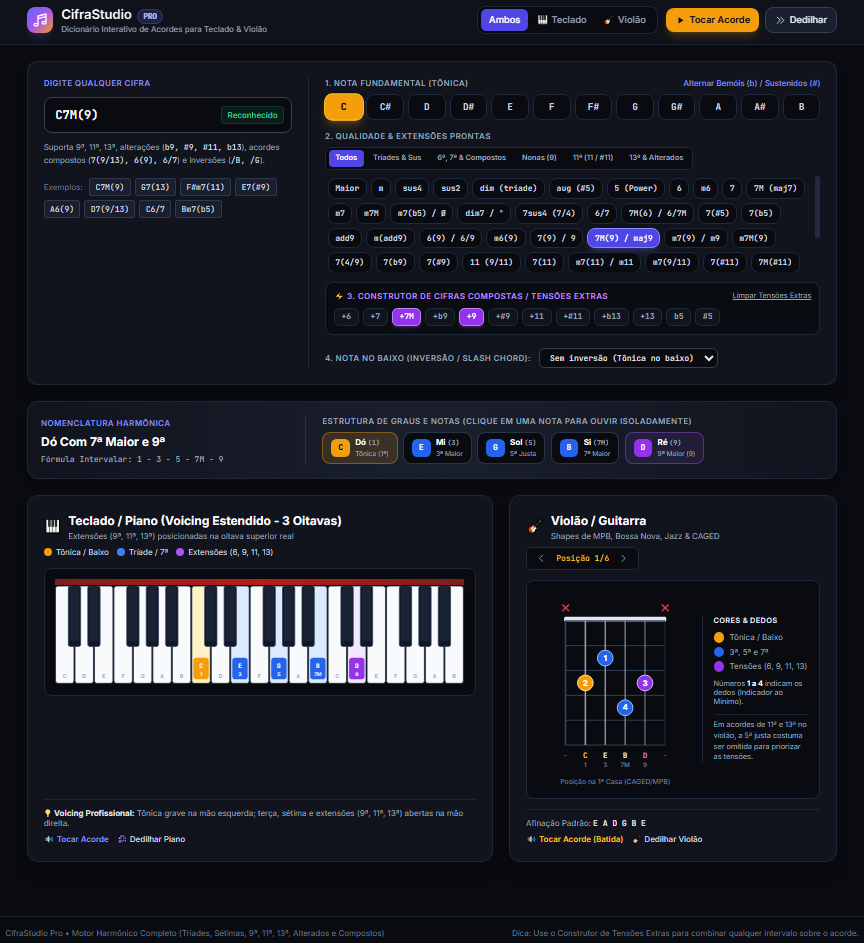
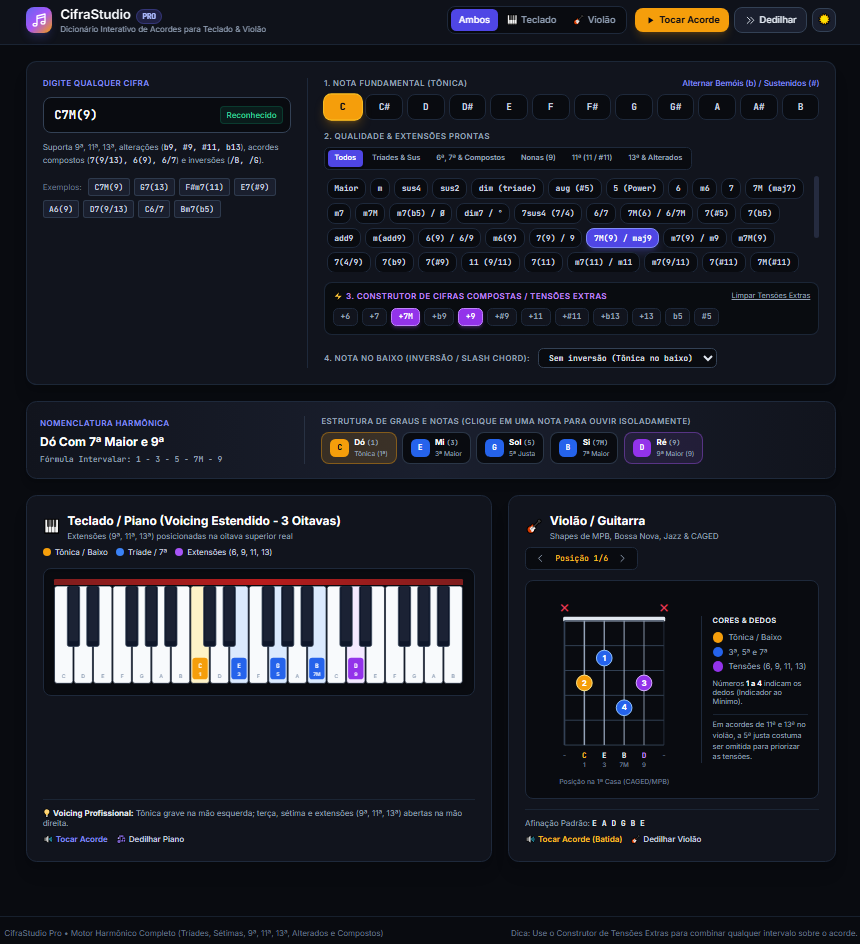
adição tema claro/escuro

diff --git a/index.html b/index.html
@@ -35,6 +35,74 @@
             background-color: #090b10;
             color: #f3f4f6;
             overflow-x: hidden;
+            transition: background-color 0.25s ease, color 0.25s ease;
+        }
+        /* Tema Claro (Light Mode Overrides) */
+        html:not(.dark) body {
+            background-color: #f1f5f9;
+            color: #0f172a;
+        }
+        html:not(.dark) .bg-studio-950,
+        html:not(.dark) .bg-studio-950\/90 {
+            background-color: #f8fafc !important;
+        }
+        html:not(.dark) .bg-studio-900,
+        html:not(.dark) .bg-studio-900\/80 {
+            background-color: #ffffff !important;
+        }
+        html:not(.dark) .bg-studio-800 {
+            background-color: #e2e8f0 !important;
+        }
+        html:not(.dark) .hover\:bg-studio-700:hover {
+            background-color: #cbd5e1 !important;
+        }
+        html:not(.dark) .from-studio-900 {
+            --tw-gradient-from: #ffffff !important;
+            --tw-gradient-to: rgb(255 255 255 / 0) !important;
+            --tw-gradient-stops: var(--tw-gradient-from), var(--tw-gradient-to) !important;
+        }
+        html:not(.dark) .via-studio-800 {
+            --tw-gradient-to: rgb(241 245 249 / 0) !important;
+            --tw-gradient-stops: var(--tw-gradient-from), #f1f5f9, var(--tw-gradient-to) !important;
+        }
+        html:not(.dark) .to-studio-900 {
+            --tw-gradient-to: #ffffff !important;
+        }
+        html:not(.dark) .border-slate-800,
+        html:not(.dark) .border-slate-800\/90,
+        html:not(.dark) .border-slate-800\/80,
+        html:not(.dark) .border-slate-800\/70,
+        html:not(.dark) .border-slate-700,
+        html:not(.dark) .border-slate-700\/80,
+        html:not(.dark) .border-slate-700\/60 {
+            border-color: #cbd5e1 !important;
+        }
+        html:not(.dark) .text-white:not(.bg-indigo-600 *):not(.bg-purple-600 *):not(.bg-blue-600 *) {
+            color: #0f172a !important;
+        }
+        html:not(.dark) .bg-indigo-600.text-white,
+        html:not(.dark) .bg-purple-600.text-white,
+        html:not(.dark) .bg-blue-600.text-white {
+            color: #ffffff !important;
+        }
+        html:not(.dark) .text-slate-200,
+        html:not(.dark) .text-slate-300 {
+            color: #334155 !important;
+        }
+        html:not(.dark) .text-slate-400 {
+            color: #475569 !important;
+        }
+        html:not(.dark) .text-amber-300 {
+            color: #b45309 !important;
+        }
+        html:not(.dark) .text-amber-400 {
+            color: #d97706 !important;
+        }
+        html:not(.dark) .text-indigo-400 {
+            color: #4f46e5 !important;
+        }
+        html:not(.dark) .text-purple-400 {
+            color: #7e22ce !important;
         }
         /* Custom Scrollbar */
         ::-webkit-scrollbar {
@@ -98,8 +166,8 @@
                     </svg>
                 </div>
                 <div>
-                    <h1 class="text-xl font-bold tracking-tight bg-gradient-to-r from-white via-slate-200 to-indigo-300 bg-clip-text text-transparent">
-                        CifraStudio <span class="text-xs font-mono uppercase px-2 py-0.5 rounded-full bg-indigo-500/20 text-indigo-300 border border-indigo-500/30 ml-1">Pro</span>
+                    <h1 class="text-xl font-bold tracking-tight bg-gradient-to-r from-slate-900 via-indigo-900 to-indigo-600 dark:from-white dark:via-slate-200 dark:to-indigo-300 bg-clip-text text-transparent">
+                        CifraStudio <span class="text-xs font-mono uppercase px-2 py-0.5 rounded-full bg-indigo-500/15 dark:bg-indigo-500/20 text-indigo-700 dark:text-indigo-300 border border-indigo-500/30 ml-1">Pro</span>
                     </h1>
                     <p class="text-xs text-slate-400">Dicionário Interativo de Acordes para Teclado & Violão</p>
                 </div>
@@ -128,6 +196,9 @@
                     <button onclick="playCurrentChord('arpeggio')" class="flex items-center gap-1.5 px-3.5 py-2 rounded-xl bg-studio-800 hover:bg-studio-700 text-slate-200 border border-slate-700 font-medium text-xs sm:text-sm transition-all active:scale-95">
                         <svg class="w-4 h-4" fill="none" stroke="currentColor" viewBox="0 0 24 24"><path stroke-linecap="round" stroke-linejoin="round" stroke-width="2" d="M13 5l7 7-7 7M5 5l7 7-7 7"/></svg>
                         <span>Dedilhar</span>
+                    </button>
+                    <button onclick="toggleTheme()" id="theme-toggle-btn" title="Alternar Tema Claro / Escuro" class="w-9 h-9 flex items-center justify-center rounded-xl bg-studio-800 hover:bg-studio-700 border border-slate-700 text-base transition-all active:scale-95">
+                        ☀
                     </button>
                 </div>
             </div>
@@ -548,7 +619,8 @@
             customNamePt: null,
             bassPitch: null,
             guitarVarIndex: 0,
-            viewMode: 'both'
+            viewMode: 'both',
+            theme: 'dark'
         };
 
         // Retorna os intervalos ativos ordenados
@@ -1431,16 +1503,17 @@
             const fretSpacing = gridH / numFrets;
 
             let svg = `<svg viewBox="0 0 ${width} ${height}" class="w-full h-auto">`;
+            const isLight = currentState.theme === 'light';
 
             if (startFret === 1) {
-                svg += `<rect x="${padLeft - 2}" y="${padTop - 6}" width="${gridW + 4}" height="7" rx="2" fill="#e2e8f0" />`;
+                svg += `<rect x="${padLeft - 2}" y="${padTop - 6}" width="${gridW + 4}" height="7" rx="2" fill="${isLight ? '#334155' : '#e2e8f0'}" />`;
             } else {
                 svg += `<text x="${padLeft - 14}" y="${padTop + fretSpacing / 2 + 5}" text-anchor="end" fill="#f59e0b" font-size="14" font-weight="800" font-family="JetBrains Mono">${startFret}ª</text>`;
             }
 
             for (let f = 0; f <= numFrets; f++) {
                 const y = padTop + f * fretSpacing;
-                svg += `<line x1="${padLeft}" y1="${y}" x2="${padLeft + gridW}" y2="${y}" stroke="#334155" stroke-width="${f === 0 ? 2 : 1.5}" />`;
+                svg += `<line x1="${padLeft}" y1="${y}" x2="${padLeft + gridW}" y2="${y}" stroke="${isLight ? '#cbd5e1' : '#334155'}" stroke-width="${f === 0 ? 2 : 1.5}" />`;
             }
 
             for (let s = 0; s < numStrings; s++) {
@@ -1450,7 +1523,7 @@
                 const isMuted = fret === -1;
 
                 svg += `<line id="guitar-str-${s}" class="guitar-string" x1="${x}" y1="${padTop}" x2="${x}" y2="${padTop + gridH}" 
-                        stroke="${isMuted ? '#334155' : '#94a3b8'}" stroke-width="${strokeW}" 
+                        stroke="${isMuted ? (isLight ? '#cbd5e1' : '#334155') : (isLight ? '#64748b' : '#94a3b8')}" stroke-width="${strokeW}" 
                         onclick="onGuitarStringClick(${s}, ${fret})" />`;
 
                 if (fret === -1) {
@@ -1521,7 +1594,7 @@
                     const noteName = noteArray[pitch];
                     svg += `
                     <text x="${x}" y="${padTop + gridH + 20}" text-anchor="middle" 
-                        fill="${isPrimaryRoot ? '#fbbf24' : (isTension ? '#c084fc' : '#e2e8f0')}" font-size="11.5" font-weight="700" font-family="JetBrains Mono">
+                        fill="${isPrimaryRoot ? (isLight ? '#d97706' : '#fbbf24') : (isTension ? (isLight ? '#7e22ce' : '#c084fc') : (isLight ? '#0f172a' : '#e2e8f0'))}" font-size="11.5" font-weight="700" font-family="JetBrains Mono">
                         ${noteName}
                     </text>
                     <text x="${x}" y="${padTop + gridH + 34}" text-anchor="middle" 
@@ -1801,6 +1874,21 @@
         function toggleFlatMode() {
             currentState.preferFlat = !currentState.preferFlat;
             updateAll(true);
+        }
+
+        function toggleTheme() {
+            const htmlEl = document.documentElement;
+            const btn = document.getElementById('theme-toggle-btn');
+            if (currentState.theme === 'dark') {
+                currentState.theme = 'light';
+                htmlEl.classList.remove('dark');
+                btn.textContent = '🌙';
+            } else {
+                currentState.theme = 'dark';
+                htmlEl.classList.add('dark');
+                btn.textContent = '☀';
+            }
+            renderGuitar();
         }
 
         function parseAndSetChord(chordStr) {

diff --git a/readme.md b/readme.md
@@ -1,31 +1,29 @@
-# 🎵 CifraStudio Pro — Dicionário e Visualizador Interativo de Acordes
-
-<p align="center">
-  <img src="./imagem.png" alt="Preview do CifraStudio Pro" width="100%" style="border-radius: 12px;" />
-</p>
+# 🎹🎸 CifraStudio Pro — Dicionário Interativo de Acordes
 
 <p align="center">
   <a href="https://denis-tek.github.io/cifra-studio/" target="_blank">
-    <img src="https://img.shields.io/badge/▶_Executar_Aplicação-GitHub_Pages-6366f1?style=for-the-badge" alt="Executar no GitHub Pages" />
+    <img src="https://img.shields.io/badge/▶_Executar_Aplicação-GitHub_Pages-6366f1?style=for-the-badge&logo=github" alt="Executar no GitHub Pages">
   </a>
   <a href="https://github.com/Denis-Tek/cifra-studio" target="_blank">
-    <img src="https://img.shields.io/badge/GitHub-Repositório-181717?style=for-the-badge&logo=github" alt="Repositório no GitHub" />
+    <img src="https://img.shields.io/badge/Repositório-Denis--Tek%2Fcifra--studio-1e293b?style=for-the-badge&logo=git" alt="Repositório GitHub">
   </a>
+</p>
+
+O **CifraStudio Pro** é uma aplicação web interativa para músicos, estudantes e professores de música que permite visualizar, construir e ouvir qualquer acorde musical (cifra) simultaneamente em um **Teclado/Piano de 3 oitavas** e no braço do **Violão/Guitarra**, com suporte completo a extensões harmônicas de MPB, Bossa Nova e Jazz.
+
+---
+
+## 🖼 Preview da Aplicação
+
+<p align="center">
+  <img src="./imagem.png" alt="Preview do CifraStudio Pro" width="100%" style="border-radius: 12px; border: 1px solid #334155;" />
 </p>
 
 ---
 
-## 📖 Sobre o Projeto
+## 🚀 Demonstração Online (GitHub Pages)
 
-O **CifraStudio Pro** é uma aplicação web interativa para músicos, estudantes e professores que desejam visualizar, ouvir e compreender a estrutura harmônica de qualquer acorde musical simultaneamente no **Teclado / Piano** e no **Violão / Guitarra**.
-
-Desenvolvido em um único arquivo autocontido (`index.html`), o projeto conta com um motor harmônico completo capaz de interpretar desde tríades básicas até acordes estendidos e alterados de **MPB, Bossa Nova e Jazz** (`9ª`, `11ª`, `13ª`, `b9`, `#9`, `#11`, `b13`, cifras compostas como `6/7`, `6(9)`, `7(9/13)` e inversões de baixo / *slash chords*).
-
----
-
-## 🚀 Demonstração Online (Live Demo)
-
-Acesse e utilize o aplicativo diretamente pelo navegador através do **GitHub Pages**:
+Acesse e utilize o aplicativo diretamente no navegador, sem necessidade de instalação:
 
 - 🔗 **Link direto do projeto:** [https://denis-tek.github.io/cifra-studio/](https://denis-tek.github.io/cifra-studio/)
 
@@ -33,62 +31,60 @@ Acesse e utilize o aplicativo diretamente pelo navegador através do **GitHub Pa
 
 ## ✨ Funcionalidades Principais
 
-- 🧠 **Parser Inteligente de Cifras em Tempo Real:**
-  - Digite qualquer cifra diretamente no campo de busca (ex: `C7M(9)`, `F#m7(11)`, `G7(13)`, `E7(#9)`, `A6(9)`, `D7(9/13)`, `C6/7`, `Bm7(b5)`, `G/B`) e veja a montagem instantânea.
-  - Diferencia automaticamente barras de acordes compostos (`C6/7`, `D7(9/13)`) de barras de inversão de baixo (`C/G`, `D/F#`).
-
-- ⚡ **Construtor Modular de Tensões Extras:**
-  - Combine livremente intervalos de `+6`, `+7`, `+7M`, `+b9`, `+9`, `+#9`, `+11`, `+#11`, `+b13`, `+13`, `b5` e `#5` sobre qualquer acorde para criar e testar *voicings* personalizados.
-
-- 🎹 **Teclado / Piano Interativo de 3 Oitavas (SVG):**
-  - Exibe 3 oitavas completas (`C3` a `B5`) com *voicing* aberto real: tônica/baixo na região grave e extensões (`9ª`, `11ª`, `13ª`) posicionadas na oitava superior correta.
-  - Diferenciação visual por cores: **Tônica/Baixo** (Âmbar), **Tríade/7ª** (Azul) e **Extensões** (Roxo), com indicação da nota e do grau em cada tecla ativa.
-  - Clique em qualquer tecla para ouvir sua nota isoladamente.
-
-- 🎸 **Violão / Guitarra com Múltiplas Posições no Braço:**
-  - Diagrama de acordes interativo com indicação de pestanas, cordas soltas, cordas abafadas (`✕`), numeração dos dedos (`1` a `4`), notas e graus resultantes em cada corda.
-  - Inclui *shapes* clássicos de **MPB, Bossa Nova, Jazz e sistema CAGED**, além de um gerador algorítmico de posições pelo braço.
-  - Clique individualmente nas cordas ou alterne entre as variações de região no braço.
-
-- 🔊 **Síntese de Áudio Realista (Web Audio API):**
-  - Sem dependência de arquivos externos de áudio: síntese sonora em tempo real com timbres dedicados para **Piano** e **Violão**.
-  - Modos de reprodução: **Tocar Acorde (Bloco / Batida)**, **Dedilhar (Arpejo)** ou audição individual de cada grau/nota.
-  - Adaptação inteligente: quando a visualização **🎸 Violão** está selecionada, todos os controles globais reproduzem automaticamente o timbre e o *voicing* do violão.
-
-- 📚 **Painel de Nomenclatura e Teoria Harmônica:**
-  - Exibe o nome completo do acorde por extenso em português, a **Fórmula Intervalar** exata e cartões interativos para cada grau da estrutura do acorde.
+* 🧠 **Reconhecimento Inteligente de Cifras (Parser Universal):**
+  * Digite qualquer cifra diretamente no campo de busca (ex: `C7M(9)`, `F#m7(11)`, `G7(13)`, `E7(#9)`, `A6(9)`, `D7(9/13)`, `C6/7`, `Bm7(b5)`, `G/B`) e veja a montagem instantânea.
+* ⚡ **Construtor Modular de Cifras Compostas & Tensões:**
+  * Botões dedicados (`+6`, `+7`, `+7M`, `+b9`, `+9`, `+#9`, `+11`, `+#11`, `+b13`, `+13`, `b5`, `#5`) para combinar tensões livremente sobre qualquer acorde base.
+  * Suporte completo a **Inversões de Baixo (*Slash Chords*)**, como `/G`, `/B`, `/F#`.
+* 🎹 **Teclado / Piano Interativo de 3 Oitavas (SVG):**
+  * Posicionamento real das extensões (`9ª`, `11ª`, `13ª`) na oitava superior.
+  * Destaque visual por cores: **Tônica/Baixo** (Âmbar), **Tríade/7ª** (Azul) e **Extensões** (Roxo), além de clique individual em cada tecla para ouvir sua nota.
+* 🎸 **Violão / Guitarra com Shapes de MPB, Bossa Nova, Jazz e CAGED:**
+  * Diagrama interativo com indicação de pestanas, cordas soltas (`O`), cordas abafadas (`✕`), numeração dos dedos (`1` a `4`) e seletor de múltiplas regiões no braço.
+* 🔊 **Motor de Áudio Realista (Web Audio API):**
+  * Síntese sonora em tempo real com timbres distintos para **Piano** e **Violão** (modo acorde em bloco/batida ou dedilhado/arpejo).
+  * Detecção automática do instrumento selecionado na visualização (`Ambos`, `🎹 Teclado` ou `🎸 Violão`).
+* 📚 **Painel de Nomenclatura e Teoria Harmônica:**
+  * Exibe o nome completo do acorde por extenso em português, a **Fórmula Intervalar** exata e cartões interativos para cada grau da estrutura do acorde.
+* ☀/🌙 **Alternância de Tema (Claro / Escuro):**
+  * Botão dedicado no cabeçalho (`☀` / `🌙`) que permite alternar instantaneamente entre o tema **Dark Studio** (padrão) e o tema **Claro (Light Mode)**, adaptando automaticamente o contraste dos textos, painéis e do braço do violão para excelente legibilidade em qualquer ambiente.
 
 ---
 
 ## 🛠 Tecnologias Utilizadas
 
-- **HTML5 Semântico**
-- **Tailwind CSS** (Estilização responsiva e tema Dark Studio)
-- **JavaScript (ES6+)** (Motor de teoria musical, parser de cifras e gerador de voicings)
-- **SVG Dinâmico** (Renderização vetorial interativa do piano e do braço do violão)
-- **Web Audio API** (Síntese polifônica de piano e violão diretamente no navegador)
+* **HTML5 & SVG Dinâmico** — Renderização vetorial responsiva do piano de 36 teclas e do braço do violão.
+* **Tailwind CSS** — Estilização moderna com suporte dinâmico aos temas Dark (`🌙`) e Light (`☀`).
+* **JavaScript (Vanilla ES6+)** — Motor de teoria musical, parser de expressões harmônicas e gerador algorítmico de *voicings*.
+* **Web Audio API** — Síntese polifônica nativa no navegador (sem dependência de amostras externas de áudio).
 
 ---
 
 ## 💻 Como Executar Localmente
 
-Como o projeto foi construído sem dependências de *build* externas, basta clonar o repositório e abrir o arquivo `index.html` em qualquer navegador moderno:
+1. Clone este repositório:
+   ```bash
+   git clone https://github.com/Denis-Tek/cifra-studio.git
+   ```
+2. Acesse a pasta do projeto:
+   ```bash
+   cd cifra-studio
+   ```
+3. Abra o arquivo `index.html` diretamente em qualquer navegador moderno (Chrome, Edge, Firefox, Safari).
 
-```bash
-# 1. Clone este repositório
-git clone https://github.com/Denis-Tek/cifra-studio.git
+---
 
-# 2. Acesse a pasta do projeto
-cd cifra-studio
+## 📖 Guia Rápido de Uso
 
-# 3. Abra o arquivo index.html no navegador
-```
+1. **Pesquisa Rápida:** Digite uma cifra na caixa de texto ou escolha a **1. Nota Fundamental** e a **2. Qualidade**.
+2. **Adicione Extensões:** Use a seção **3. Construtor de Cifras Compostas** para ativar/desativar tensões como `9`, `11`, `#11` ou `13`.
+3. **Explore o Braço do Violão:** Clique nas setas `<` e `>` acima do diagrama do violão para alternar entre diferentes posições no braço.
+4. **Ouça o Som:** Clique em **Tocar Acorde**, **Dedilhar** ou diretamente sobre qualquer tecla do piano, corda do violão ou cartão de nota.
+5. **Personalize a Visualização:** Escolha entre exibir `Ambos`, apenas `🎹 Teclado` ou apenas `🎸 Violão`, e clique no ícone `☀` / `🌙` no canto superior direito para alternar entre o **Tema Claro** e o **Tema Escuro**.
 
 ---
 
 ## 👤 Autor
 
-Desenvolvido por **Denis** ([Denis-Tek](https://github.com/Denis-Tek)).
-
-- 🌐 Aplicação Online: [https://denis-tek.github.io/cifra-studio/](https://denis-tek.github.io/cifra-studio/)
-- 📦 Repositório: [https://github.com/Denis-Tek/cifra-studio](https://github.com/Denis-Tek/cifra-studio)
+Desenvolvido por **Denis** — [GitHub (@Denis-Tek)](https://github.com/Denis-Tek)  
+Projeto disponível em: [https://github.com/Denis-Tek/cifra-studio](https://github.com/Denis-Tek/cifra-studio)
